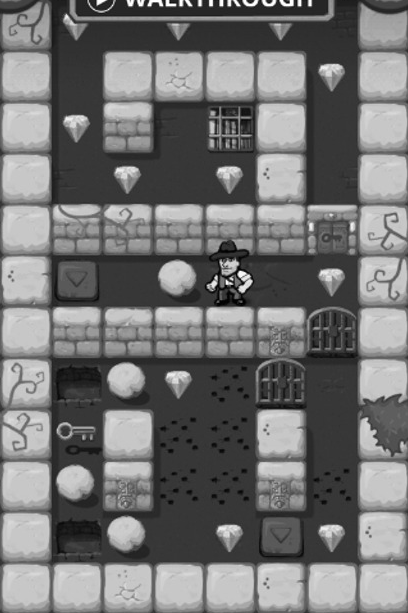
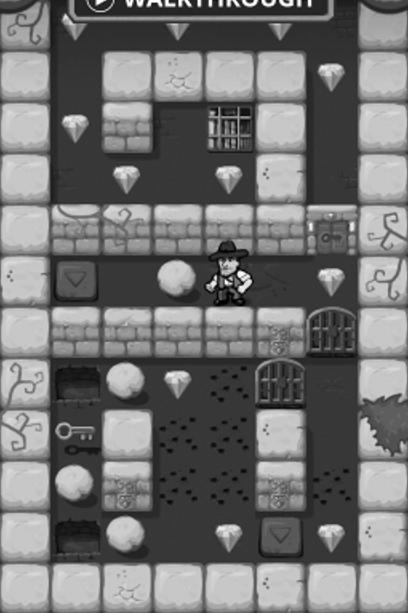
fix: 🚑 template matching

diff --git a/src/generate_field.py b/src/generate_field.py
@@ -1,3 +1,4 @@
+import tensorflow as tf
 import cv2
 import numpy as np
 
@@ -26,7 +27,7 @@ templates_path = assets_path + "templates/"
 level_image_path = assets_path + "level/level.png"
 level_gray_image_path = assets_path + "level/levelGray.png"
 
-ts = 32			#Tile size
+ts = 51.2		#Tile size
 fr = 2			#First row
 lr = 14			#Last row
 fc = 1			#First column
@@ -36,10 +37,10 @@ rows = lr - fr	#Row number
 cols = lc - fc	#Column number
 
 tileset = [[1, "M", .65, "1"], [1, "M", .69, "2"], [1, "M", .80, "3"], [1, "M", .80, "4"], [1, "M", .80, "5"], [2, "P", .90, "6"], [3, "D", .80, "7"], [4, "S", .70, "8"], [5, "LL", .80, "9"], [6, "PLL", .70, "10"], [7, "R", .80, "11"], [8, "PP", .90, "12"], [9, "PPP", .70, "13"], [10, "H", .65, "14"], [11, "L", .30, "15"], [12, "PI", .70, "16"], [13, "T", .80, "17"]]
-field = [[0]*cols]*rows		#8x14 matrix
+field = [[0,0,0,0,0,0,0,0],[0,0,0,0,0,0,0,0],[0,0,0,0,0,0,0,0],[0,0,0,0,0,0,0,0],[0,0,0,0,0,0,0,0],[0,0,0,0,0,0,0,0],[0,0,0,0,0,0,0,0],[0,0,0,0,0,0,0,0],[0,0,0,0,0,0,0,0],[0,0,0,0,0,0,0,0],[0,0,0,0,0,0,0,0],[0,0,0,0,0,0,0,0]]
 
 #------------------------------------------------------------------
-def recognise_tile(tile):
+def recognise_tile(tile, level):
 	tile_type_num = tile[0]
 	tile_type = tile[1]
 	tile_threshold = tile[2]
@@ -49,12 +50,15 @@ def recognise_tile(tile):
 	w = tile_template.shape[1]
 	h = tile_template.shape[0]
 
-	result = cv2.matchTemplate(level_img, tile_template, cv2.TM_CCOEFF_NORMED)
+	result = cv2.matchTemplate(level, tile_template, cv2.TM_CCOEFF_NORMED)
 	min_val, max_val, min_loc, max_loc = cv2.minMaxLoc(result)
 	yloc, xloc = np.where(result >= tile_threshold)
 
 	for (x, y) in zip(xloc, yloc):
-		cv2.rectangle(level_img, (x, y), (x + w, y + h), (0,255,255), 1)
+		cv2.rectangle(level, (x, y), (x + w, y + h), (0,255,255), 1)
+	
+	#cv2.imshow("image", level)
+	#cv2.waitKey(0)
   
 	rectangles = []
 	for (x, y) in zip(xloc, yloc):
@@ -69,14 +73,22 @@ def recognise_tile(tile):
 		field[col][row] = tile_type
 
 #------------------------------------------------------------------
+
 level_img = cv2.imread(level_image_path, cv2.IMREAD_UNCHANGED)
-level_img = cv2.cvtColor(level_img, cv2.COLOR_BGR2GRAY)
+level_img = cv2.cvtColor(level_img, cv2.COLOR_BGR2RGB)
+cv2.imwrite(level_image_path, level_img)
+
+level_img = tf.keras.utils.load_img(level_image_path, color_mode="grayscale")
+level_img = tf.keras.utils.img_to_array(level_img)
 
 region = level_img[ceil(ts*fr):floor(ts*lr), ceil(ts*fc):floor(ts*lc)]
-cv2.imwrite(level_gray_image_path, level_img)
+region = tf.keras.utils.array_to_img(region)
+region.save(level_gray_image_path)
+
+level_img = cv2.imread(level_gray_image_path, cv2.IMREAD_UNCHANGED)
 
 for tile in tileset:
-	recognise_tile(tile)
+	recognise_tile(tile, level_img)
 
 #Corner cases
 if field[0] != ["H", 0, 0, "R", 0, 0, "R", 0]:

diff --git a/src/init_game.py b/src/init_game.py
@@ -9,9 +9,13 @@ from time import sleep
 from LocalStorage import *
 
 #------------------------------------------------------------------
-#map_tiles = (15,10) #Rows and Columns
-#tile_size = (64, 64) #Pixels
-window_size = (403, 604) #320 x 480 Game area
+game_width = 320
+game_height = 480
+
+out_width = 512
+out_height = 768
+
+window_size = (game_width+83, game_height+124) #320 x 480 Game area
 
 driver_path = "./src/drivers/chromedriver"
 server = "localhost:9014"
@@ -49,7 +53,8 @@ def generate_level_image(path):
 	game_canvas.screenshot(path)
 
 	img = Image.open(path)
-	img = img.crop((0, 0, 320, 480)) #Left - Top - Right - Bottom
+	img = img.crop((0, 0, game_width, game_height)) #Left - Top - Right - Bottom
+	img = img.resize((out_width, out_height))
 	img.save(path)
 
 #------------------------------------------------------------------

diff --git a/src/generate_templates.py b/src/generate_templates.py
@@ -1,0 +1,14 @@
+import cv2
+
+templates_path = "./assets/templates/"
+template_name = "TileTemplate"
+format = ".png"
+
+def rezise_and_save(img, w, h, path):
+    img = cv2.resize(img, (w,h))
+    cv2.imwrite(path, img)
+
+for i in range(1,18):
+    template_path = templates_path + template_name + str(i) + format
+    template = cv2.imread(template_path, cv2.IMREAD_GRAYSCALE)
+    rezise_and_save(template, 32, 32, template_path)
